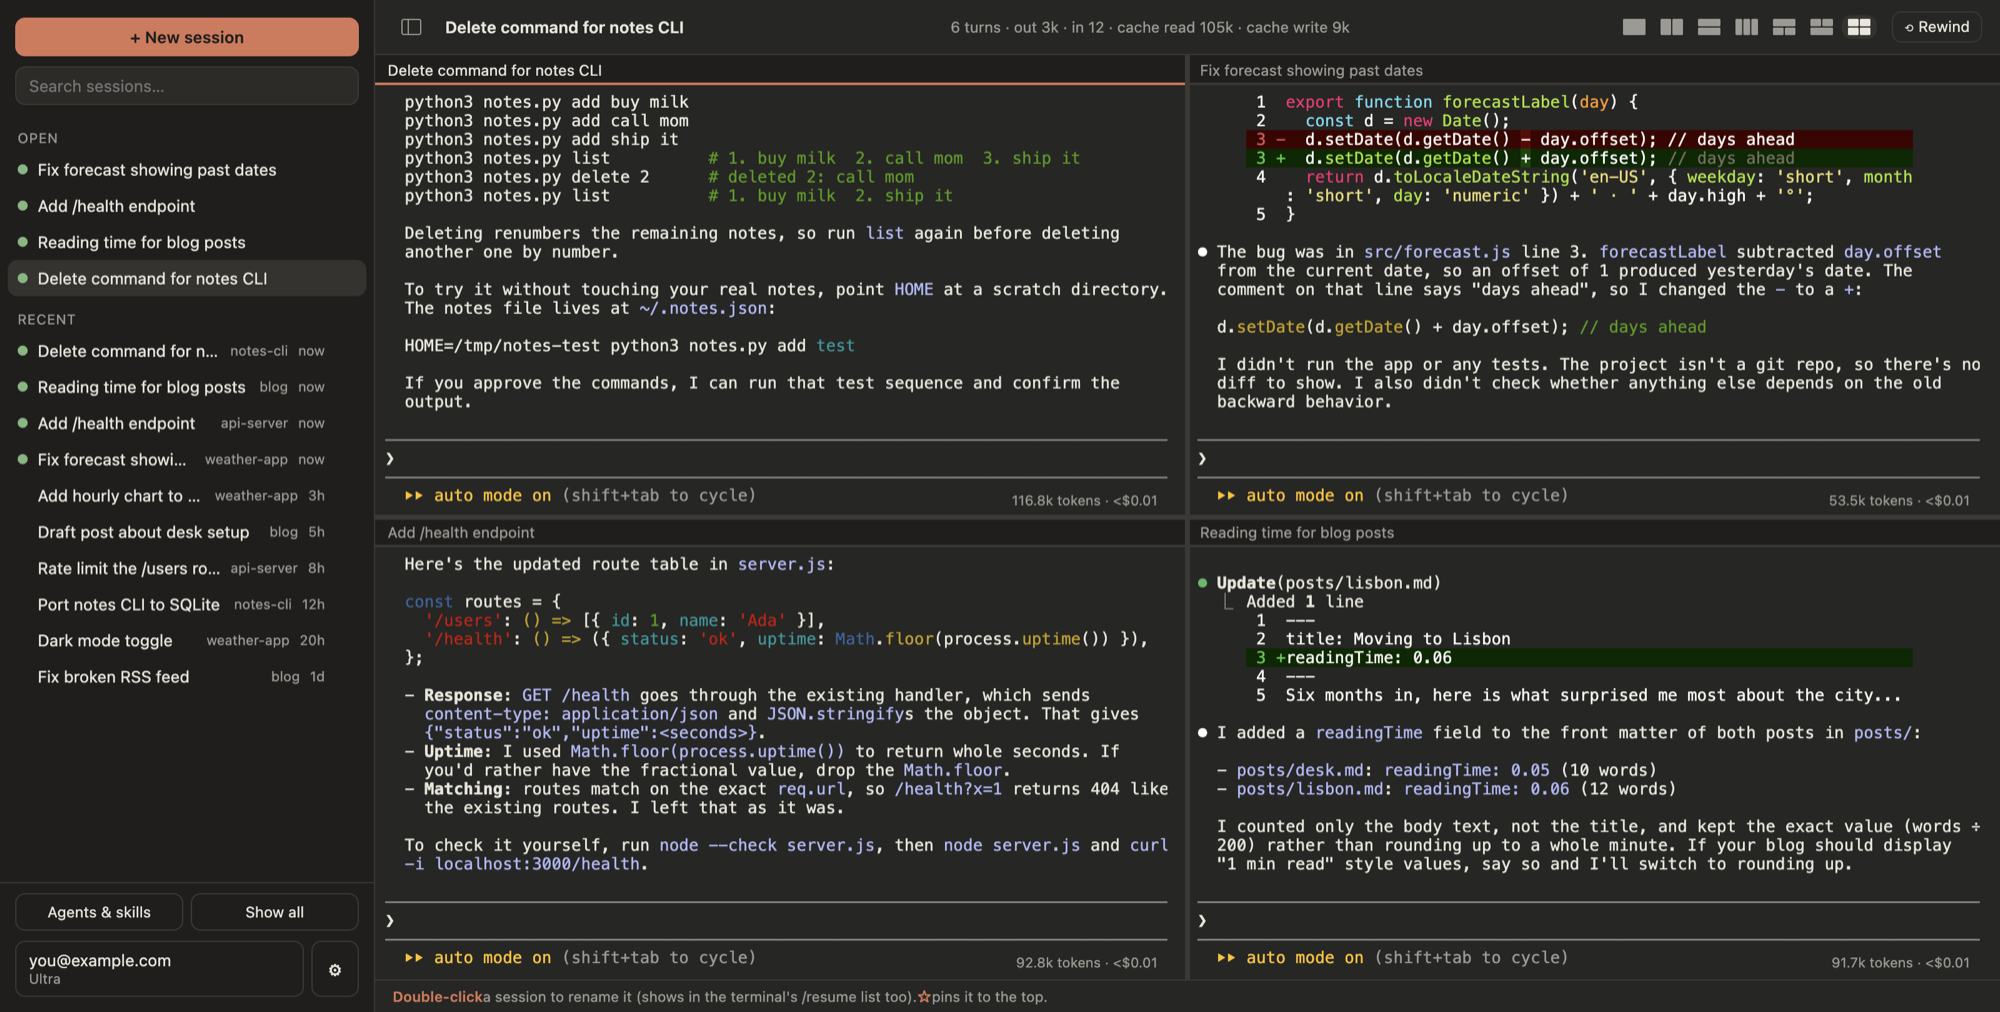
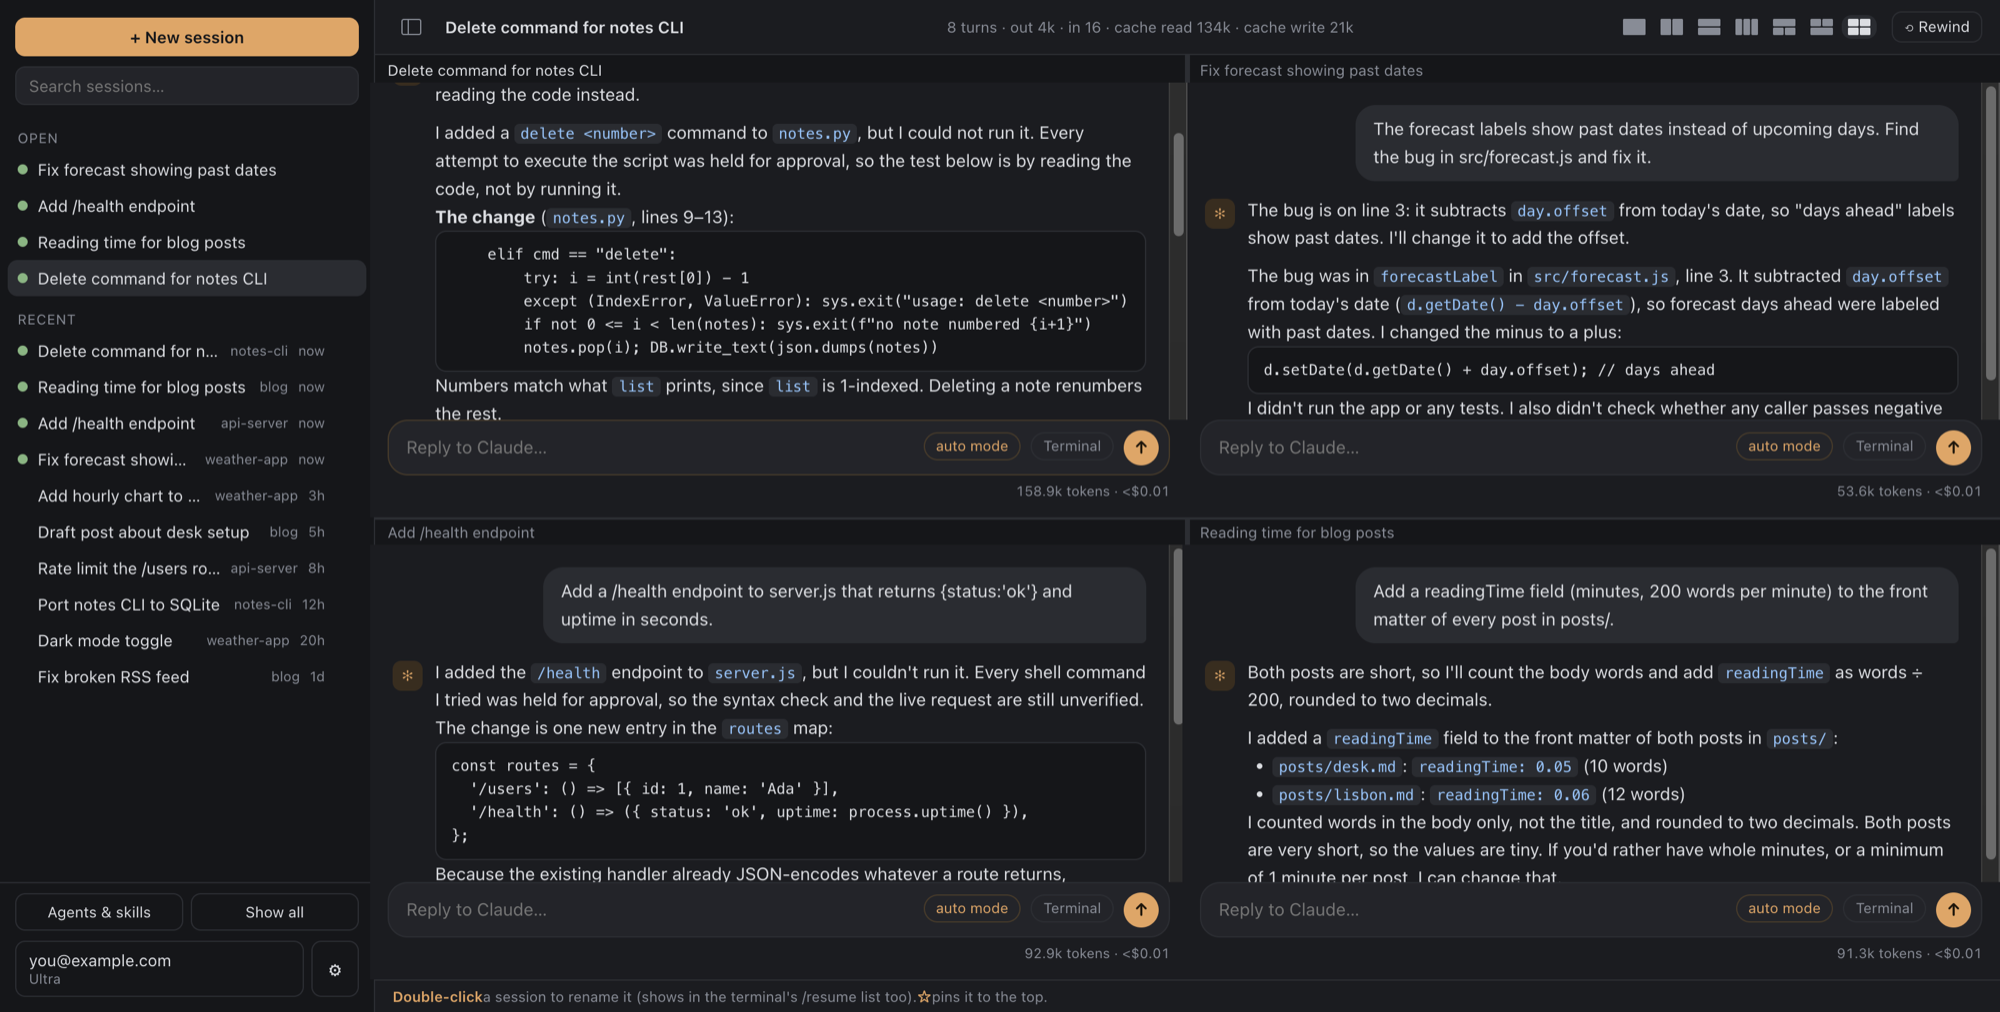
README: chat view, terminal images, new shortcuts, chattest; new screenshot (4 sessions as chats, 2x2, demo sandbox HOME)
Claude-Session: https://claude.ai/code/session_01Mu8wjLFoQeotkHGokJZcc8

diff --git a/README.md b/README.md
@@ -2,9 +2,9 @@
 
 # CC Desk
 
-A small macOS window for [Claude Code](https://docs.claude.com/en/docs/claude-code) that feels like a chat app: your sessions in a sidebar, the **real `claude` terminal** on the right.
+A small macOS window for [Claude Code](https://docs.claude.com/en/docs/claude-code) that feels like a chat app: your sessions in a sidebar, each one shown as a chat, with the **real `claude` terminal** running underneath (⌘T flips between them).
 
-![CC Desk with four Claude Code sessions in a 2×2 split view](screenshot.png)
+![CC Desk with four Claude Code sessions as chats in a 2×2 split view](screenshot.png)
 
 > Unofficial. Not made by, affiliated with, or endorsed by Anthropic. "Claude" and "Claude Code" are Anthropic's trademarks.
 
@@ -12,6 +12,8 @@ It doesn't replace or modify Claude Code. It runs your installed `claude` in an 
 
 ## What you get
 - **Sessions sidebar**: every past session under its real title, search, pins, rename (shows in `/resume` too), click to resume. Scripted runs (`claude -p`) stay out of the list.
+- **Chat view:** each session reads as messages (code blocks, lists, tables), with a reply box, a live "working" line with Stop, the current mode, and Claude's questions and permission prompts as buttons. ⌘T (or the Terminal pill) shows the real terminal; menus that need it open there.
+- **Images in the terminal:** pasted and opened images show as small thumbnails on their line; click to enlarge.
 - **Several sessions open at once**, with live status: a pulsing red dot while Claude works, a flashing white dot and title when it needs you, a plain dot when it's finished
 - **Mac notifications** when a session finishes or needs you; click to jump there
 - **Settings window** (⌘,) for model, effort, permissions, theme, notifications, plugins, connections (`claude mcp list`)
@@ -23,7 +25,7 @@ It doesn't replace or modify Claude Code. It runs your installed `claude` in an 
 - **Usage page** in Settings: estimated cost, input, output and cached tokens by session, day, hour and model.
 - **Per-session usage** (turns and tokens), a ⟲ Rewind button, drag files onto a session, an account menu
 - **Updates in the app**: an "Update available" line shows up when there's a new version
-- **Shortcuts:** ⌘, Settings · ⌘B sidebar · ⌘A selects the whole prompt (then Backspace or typing replaces it)
+- **Shortcuts:** ⌘, Settings · ⌘B sidebar · ⌘T chat/terminal · ⌘D / ⇧⌘D split right/down · ⌘A selects the whole prompt (then Backspace or typing replaces it)
 - Opens filling the screen (minus the menu bar and Dock)
 
 ## Support
@@ -59,6 +61,7 @@ Checks (all run hidden, in a sandbox HOME, and never touch your real files or th
 - `DESK_SELFTEST=1 node_modules/.bin/electron selftest.js`: a real `claude` boots in a hidden tab
 - `node uitest.js` and `node uitest-advanced.js`: everyday and advanced clicks with visible-state checks
 - `node uitest-persist.js`: quit and reopen, sessions survive and replay
+- `DESK_SELFTEST=1 node_modules/.bin/electron chattest.js`: a real `claude` answers through the chat box
 
 ## License
 MIT
